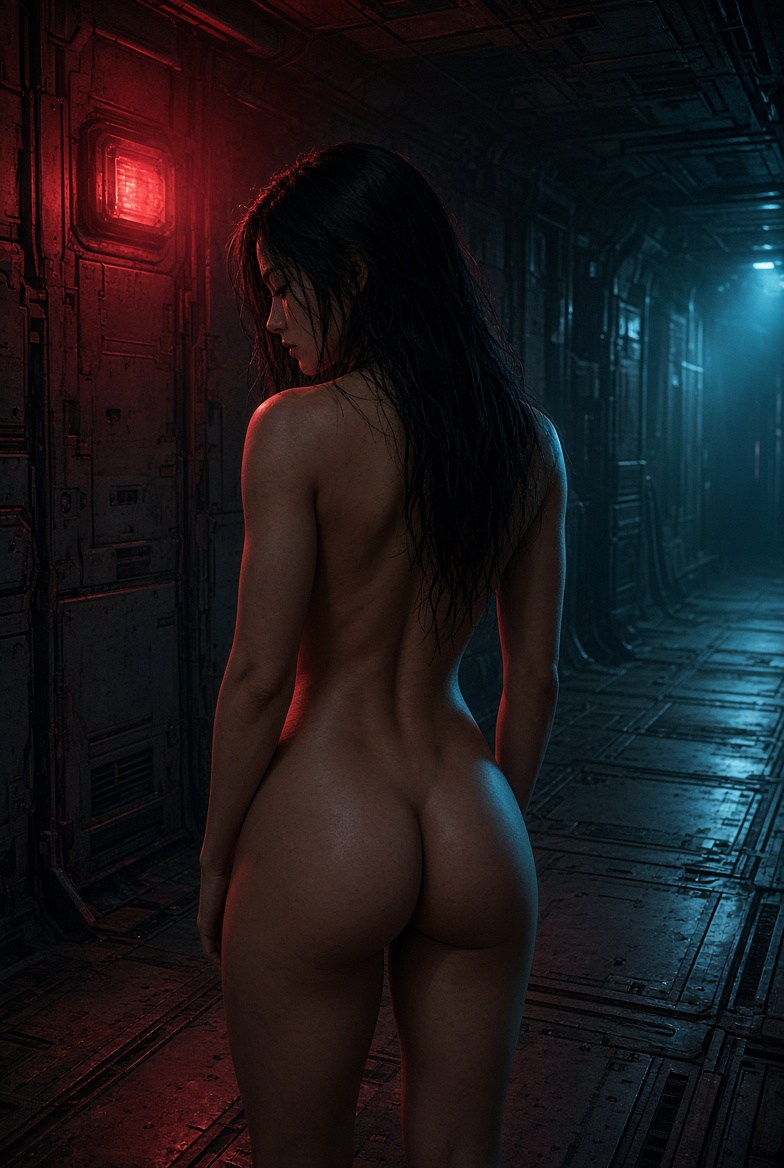
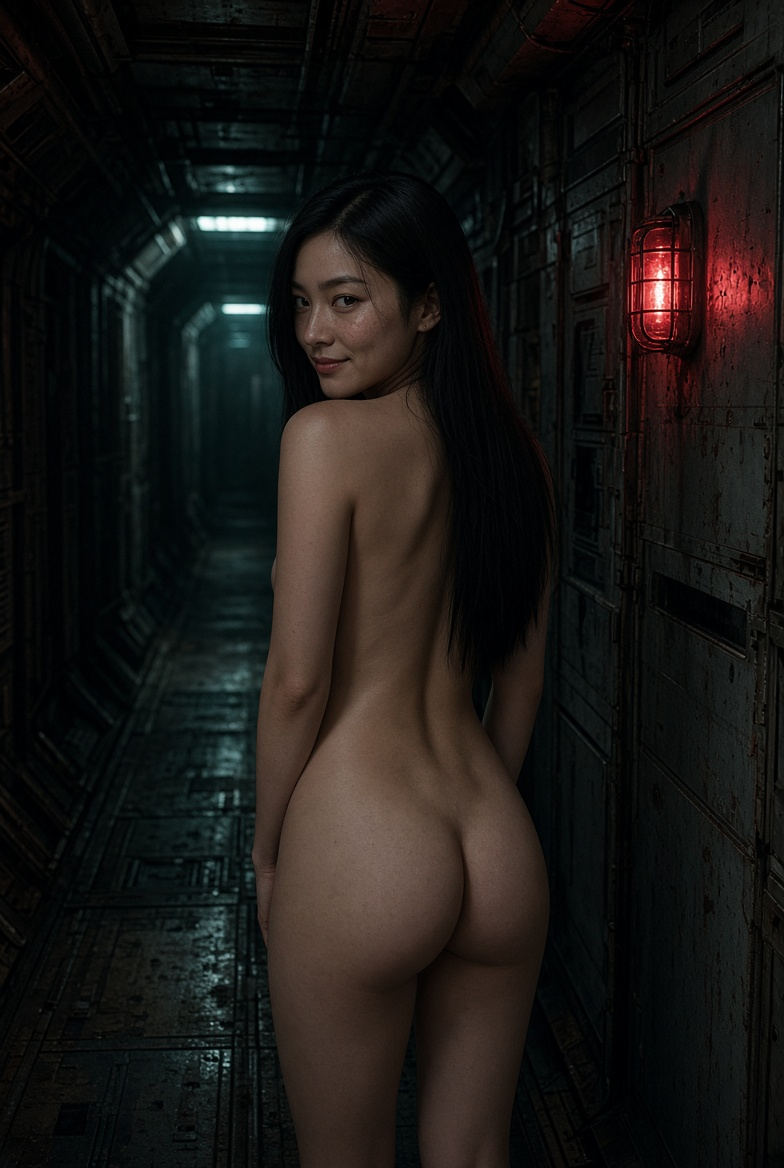
SUN-HITL-LATE-SIX-01: wire the six recovered owner-approved Grok Imagine cards
The ART HITL record listed six approved Imagine frames that were never written
to disk; 2026-09-27 shipped the old plates 'owner-as-is'. With Manraj's go, the
exact approved cards were recovered from the Grok $ Art chat (each followed by his
'approved, next', 2026-09-08/09): XCckB -> shower_mira, CzOb5 -> rear_mira,
wT0pe -> rear_amara, SJDX2 -> rear_sela, 8flOC -> priority_ration, njQ5P ->
berths_manifest (its own plate; empty_berths keeps empty_berths.jpg). The
Sep-23 harvest candidates were different images and are not used. Each card was
checked against the official portraits (no readable text, Commander faceless) and
is face-gated; the plate-faces check pins each file to its card bytes. Images
tree hash repinned. Copies saved to the owner folder grok_approved_imagine_cards/.

Claude-Session: https://claude.ai/code/session_01S9qtFdpPBzw7z5Zsredxtz

diff --git a/src/engine.js b/src/engine.js
@@ -1291,7 +1291,15 @@ const PLATE_FACES = {
   "images/aftermath_seal_holds.jpg": ["elias"],
   "images/sun_payoff.jpg": ["sela"],
   "images/pair_grudge_settle.jpg": ["tomas", "jiro"],
-  "images/custody_shared.jpg": ["sela"]
+  "images/custody_shared.jpg": ["sela"],
+  // SUN-HITL-LATE-SIX-01: the six approved Grok Imagine cards recovered from the $ Art chat
+  // (XCckB, CzOb5, wT0pe, SJDX2, 8flOC, njQ5P), each checked against the official portraits.
+  "images/shower_mira.jpg": ["mira"],
+  "images/rear_mira.jpg": ["mira"],
+  "images/rear_amara.jpg": ["amara"],
+  "images/rear_sela.jpg": ["sela"],
+  "images/priority_ration.jpg": ["elias", "lena", "mira", "amara", "sela"],
+  "images/berths_manifest.jpg": ["amara"]
 };
 // SUN-HITL-SHADOW-02: only plates whose bytes differ from the scene's own image. Byte-identical
 // copies under event names stay shadowed so the face gate keeps matching the original filename.
@@ -1302,7 +1310,9 @@ const HITL_EVENT_PLATE_IDS = new Set([
   "observation_nightshift", "observation_nightshift_ask", "observation_nightshift_leave", "vess_signal",
   "vess_cost", "vess_transmission", "act3_lethal_mira_board", "act3_lethal_mira_reserve", "aftermath_seal",
   "aftermath_seal_order", "aftermath_seal_holds", "sun_payoff", "ship_interrupt", "pair_grudge_settle",
-  "custody_shared"
+  "custody_shared",
+  // SUN-HITL-LATE-SIX-01: njQ5P is berths_manifest's own plate; empty_berths keeps empty_berths.jpg.
+  "berths_manifest"
 ]);
 
 // SUN-ART-R2-FALLBACKS-01 (Manraj opened ART-R2 for people-free fallbacks, 2026-11-05): a blocked
@@ -1316,7 +1326,8 @@ const PLATE_FACE_FALLBACK = {
   "images/observation_nightshift.jpg": "images/art_r2_observation_wreck.jpg",
   "images/observation_nightshift_ask.jpg": "images/art_r2_observation_wreck.jpg",
   "images/observation_nightshift_leave.jpg": "images/art_r2_observation_wreck.jpg",
-  "images/custody_shared.jpg": "images/art_r2_observation_wreck.jpg"
+  "images/custody_shared.jpg": "images/art_r2_observation_wreck.jpg",
+  "images/berths_manifest.jpg": "images/art_r2_empty_berths.jpg"
 };
 function plateFacesPresent(src) {
   const faces = PLATE_FACES[src];

diff --git a/artifacts/PROJECT_STATUS.md b/artifacts/PROJECT_STATUS.md
@@ -3,7 +3,7 @@
 `schema_version: 3`
 `updated_utc: 2026-11-05`
 `work_branch: version/0.30.1-main-reconcile-ci.1`
-`work_branch_tip: 0ed0306 (after PR #495)`
+`work_branch_tip: 4f0f08a (after PR #496)`
 `main_sha: e5a71fc342f0d4bb151ccee92e989b65e2d0ab5a (close-out PR #492, 2026-11-05; NOT_CERTIFIED)`
 `source_main_sha: 8d23109b63b844e0703fb36643f14b91b8800c90`
 `netlify_production: deploy 6ab363f139fc952b12339989 · commit 0e7535d (PR #371, 2026-09-23) · API deploy`
@@ -58,7 +58,8 @@ Per AGENTS.md v2: Manraj owns product, canon, art, locks and every publish actio
 | 493 | SUN-CLOSEOUT-RECORD-01 | Recorded the close-out ruling. Process only. |
 | 494 | SUN-PLATE-FACES-06 | The face gate covers the five HITL plates that show crew, on every resolver path. Exposures went from 13 to 0. |
 | 495 | SUN-ART-R2-FALLBACKS-01 | A blocked plate falls back to an empty plate of its own setting (berths, observation, vault) from the held ART-R2 reserve. |
-| this PR | SUN-HITL-SHADOW-02 | 27 owner-approved HITL event plates that were mapped but shadowed by each scene's older image now render, each face-gated with a roster checked by eye. |
+| 496 | SUN-HITL-SHADOW-02 | 27 owner-approved HITL event plates that were mapped but shadowed by each scene's older image now render, each face-gated with a roster checked by eye. |
+| this PR | SUN-HITL-LATE-SIX-01 | The six approved Grok Imagine frames (XCckB, CzOb5, wT0pe, SJDX2, 8flOC, njQ5P) were never saved in September. They were recovered from the Grok `$ Art` chat with Manraj's go, and now replace the as-is plates. |
 
 ## Open
 
@@ -89,7 +90,7 @@ Per AGENTS.md v2: Manraj owns product, canon, art, locks and every publish actio
 - **2: yes.** Unreadable saves get an export escape hatch. This reverses the 0.32 fail-closed Export rule for unreadable bytes only. It lands as SUN-UNREADABLE-EXPORT-01.
 - **3: keep.** Amara stays on intro slide 1.
 - **6: A.** After an aborted hard burn, `final_choice` stops offering Hold. Landed in SUN-FINAL-HOLD-ONCE-01.
-- **ART-R2: opened for people-free fallbacks only** (2026-11-05). Wired in SUN-ART-R2-FALLBACKS-01. The four Sep-23 harvest candidates for the unsaved Imagine frames stay unapproved, and the shipped versions remain, until Manraj verifies them in the Grok art chat.
+- **ART-R2: opened for people-free fallbacks only** (2026-11-05). Wired in SUN-ART-R2-FALLBACKS-01. The Sep-23 harvest candidates turned out to be different images from the approved cards, so they are discarded. The real six were recovered from the Grok `$ Art` chat on 2026-11-05 and are wired in SUN-HITL-LATE-SIX-01.
 - **7: now.** Done as PR #492, `main` @ `e5a71fc`. Its head was `version/0.30.1-main-closeout.1`, at the same commit as the lane. The policy's general `version/*` → `main` route applied, because the lane's own name is bound to the August 10-path CI diff. No gate code changed. No tag, release, deploy, Netlify or certification came with it.
 
 *Withdrawn 2026-11-05:* the earlier note that `act3_crisis_declare` is unreachable was wrong. Split-ideology runs reach it, as #487's coverage check confirms.
